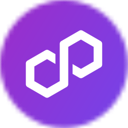
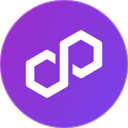
ASSET-41 Enhance the image quality

Changed region(s): [[0.0, 0.0, 1.0, 1.0]]

diff --git a/libraries/preprocess/image.py b/libraries/preprocess/image.py
@@ -42,7 +42,7 @@ def __convert_svg_to_png256(
         overwrite: Whether to overwrite the PNG image.
 
     Notes:
-        The SVG image is converted to a 256x256 PNG image with 300 DPI.
+        The SVG image is converted to a 256x256 PNG image with 96 DPI.
     """
     png256_path = png_path or svg_path.parent.joinpath("image-256.png")
     if overwrite or not os.path.isfile(png256_path):
@@ -52,7 +52,7 @@ def __convert_svg_to_png256(
                 write_to=str(png256_path),
                 output_width=256,
                 output_height=256,
-                dpi=300,
+                dpi=96,
                 scale=2,
             )
 
